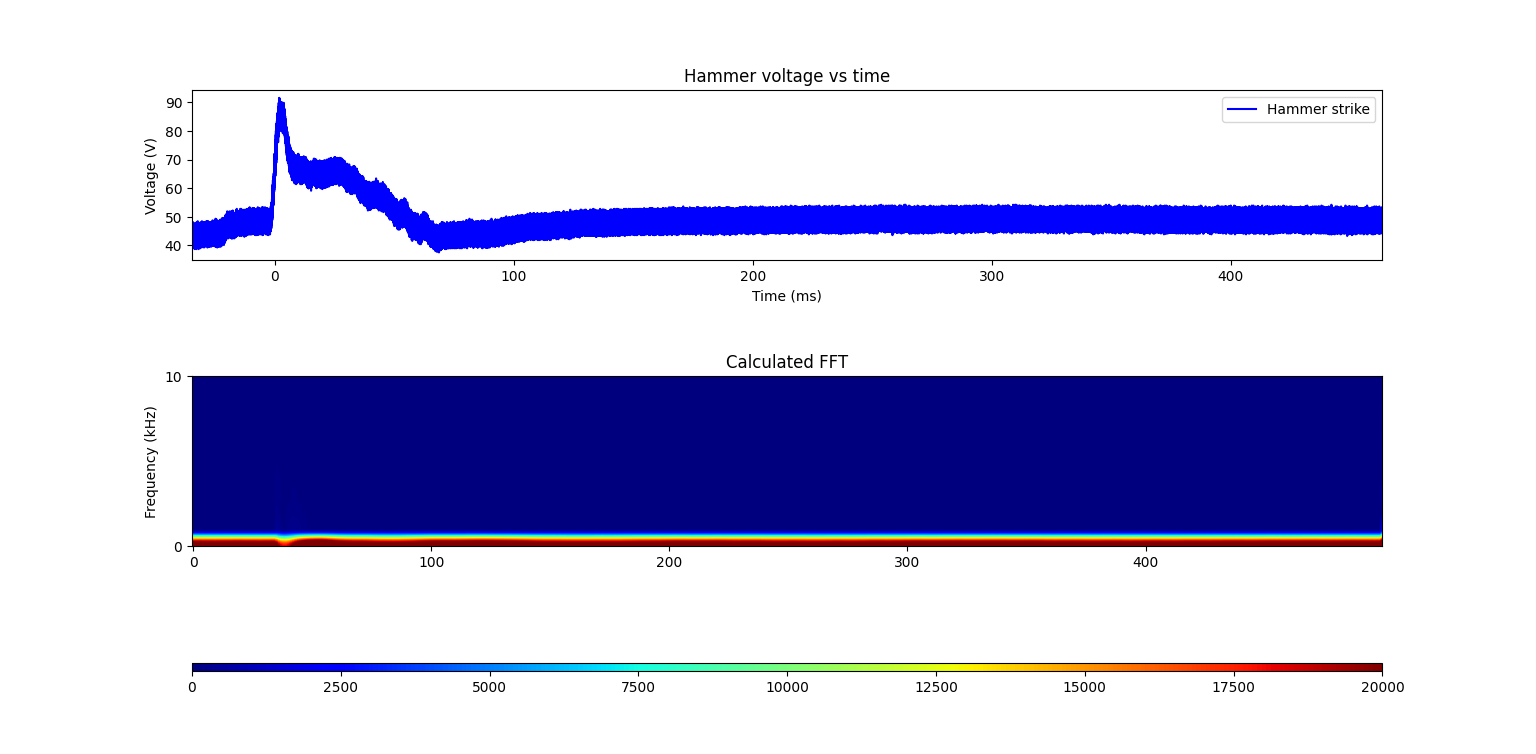
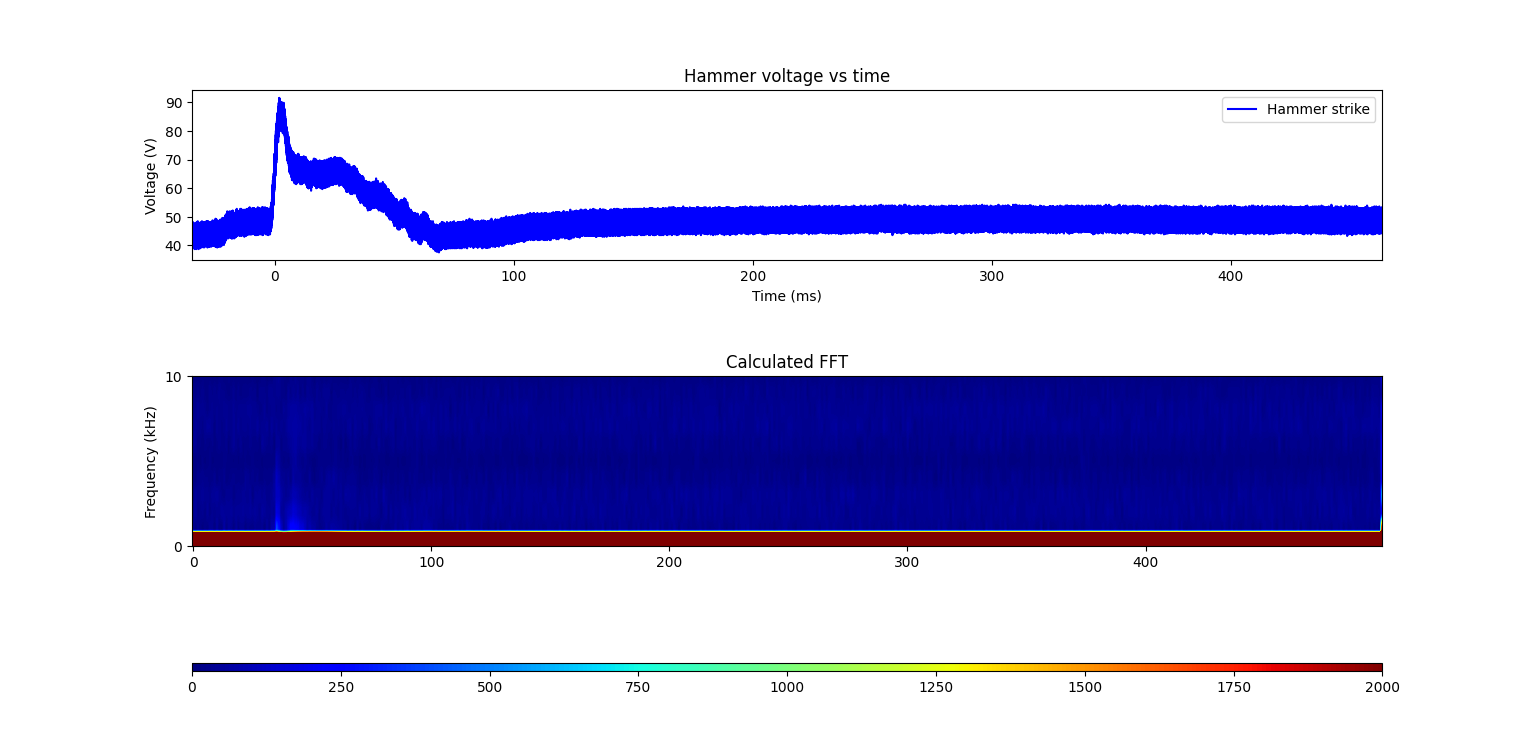
yer frequency analysis works

diff --git a/src/data_analysis_jupyter/analyze_Pico_data.py b/src/data_analysis_jupyter/analyze_Pico_data.py
@@ -86,11 +86,8 @@ def find_maxima_envelope(signal, sampling_rate, approx_frequency):
     return envelope
 
 def butter_lowpass_filter(data, cutOff, fs, order=4):
-    def butter_lowpass(cutOff, fs, order=5):
-        nyq = 0.5 * fs
-        normalCutoff = cutOff / nyq
-        b, a = butter(order, normalCutoff, btype='low', analog = True)
-        return b, a
+    def butter_lowpass(cutoff, fs, order=5):
+        return butter(order, cutoff, fs=fs, btype='low', analog=False)
     
     b, a = butter_lowpass(cutOff, fs, order=order)
     y = lfilter(b, a, data)
@@ -129,7 +126,21 @@ def get_filtered_pulses(data, Sampling_frequency, use_raw_envelope = False, filt
             sos = butter(Filter_order, [Filter_lowcut, Filter_highcut], btype='bandpass', fs=Sampling_frequency, output='sos')
             return np.apply_along_axis(lambda x: sosfilt(sos, x), axis=0, arr = data)
         else:
-            return butter_lowpass_filter(data, cutOff=Filter_highcut, fs=Sampling_frequency, order=Filter_order)
+            window_size_ms = 0.5
+            dt = 1000/Sampling_frequency   # in ms
+            window_size = int(window_size_ms/dt)
+            # Ensure the window size is odd (required for median filter)
+            if window_size % 2 == 0:
+                window_size += 1
+            lowpass = medfilt(data, window_size)
+            
+            '''
+            plt.plot(np.arange(len(data)), data)
+            plt.plot(np.arange(len(lowpass)), lowpass)
+            print(f"filtered data length {len(lowpass)}, versus original {len(data)}")
+            plt.show()
+            '''
+            return lowpass
 
 def get_envelope(data, use_raw_envelope = False):
     '''
@@ -233,7 +244,8 @@ def get_reshaped_arrays(all_csv_data, col_indexes, filter_freqs = [40000, 60000]
     - cuff_recieved_reshaped, circuit_env_reshaped: Filtered recieved pulses and circuit envelope pulses reshaped, respectively.
     - time_ticks: Start time of each pulse (1D array)
     '''
-    use_raw_envelope = False    # If False, Hilbert envelope, if True, maxima envelope     
+    use_raw_envelope = False if filter_freqs[1] < 1000000 else True   # If False, Hilbert envelope, if True, maxima envelope 
+                                                                    # Maxima envelope should be used for unfiltered signal    
     
     # This is dependent on the system, and used to organize where each recieved pulse begins and ends
     SQUARE_PULSES_EXPECTED = 10
@@ -707,7 +719,7 @@ def plot_heat_map_fourier(input_files, folder_path = "", png_name = "", stddev =
     ax2 = plt.subplot(gs[1])
     cuff_vals_for_heatmap = fft_arr
     lower_lim_imshow = 0
-    upper_lim_imshow = 20000
+    upper_lim_imshow = 2000
     im = ax2.imshow(np.transpose(cuff_vals_for_heatmap), aspect='auto', cmap='jet', vmin=lower_lim_imshow, vmax=upper_lim_imshow)
     ax2.set_title("Calculated FFT")
     
@@ -919,7 +931,7 @@ def get_fourier_gif(input_files, col_indexes, save_as_mp4 = True, in_ms = True, 
     print(f"Saved at: {save_place}")
     plt.show()
     
-def plot_2d(input_file_array, legends, use_integral = True, use_calculated_env = True, use_abs = True, folder="", title="fig", in_ms = True):
+def plot_2d(input_file_array, legends, use_integral = True, use_calculated_env = True, use_abs = True, folder="", title="fig", in_ms = True, comparing_filters = False):
     '''
     Plots a heatmap as a single line (the line being the intergal or average of each pulse.)
 
@@ -945,14 +957,18 @@ def plot_2d(input_file_array, legends, use_integral = True, use_calculated_env =
     start_border_ms = 0.3 # Only look at the part of the pulse after this time in ms in the pulse
     ignore_end_of_pulse = True
     end_border_ms = 1.2 # Only look at the part of the pulse before this time in ms in the pulse
-    
+    if (not in_ms):
+        start_border_ms *= 0.001
+        end_border_ms *= 0.001
+        
     # Find y-limit
     abs_max = 0
     abs_min = 100000000
 
     # Loop over each trial to get the averages/variances
     trial_maximum_times = []
-    for input_files in input_file_array:
+    for i in range(len(input_file_array)):
+        input_files = input_file_array[i]
         hammer_times = input_files[0]
         hammer_recieved = input_files[1]
         emg_recieved = input_files[2]
@@ -992,7 +1008,9 @@ def plot_2d(input_file_array, legends, use_integral = True, use_calculated_env =
                 pulse_of_interest = pulse_of_interest[:end_border_index]
                 first_pulse = first_pulse[:end_border_index]
 
-            if use_abs: pulse_of_interest = np.abs(pulse_of_interest - first_pulse)
+            if use_abs: # and (not (comparing_filters)): 
+                # Do NOT normalize to first "pulse" for the lowpassed thing
+                pulse_of_interest = np.abs(pulse_of_interest - first_pulse)
 
             if use_integral: these_lines.append(np.sum(pulse_of_interest)*dt)
             else: these_lines.append(np.average(pulse_of_interest))
@@ -1135,7 +1153,7 @@ def analyze_one_trial(file_name, col_order, plot_circuit_envelope):
         # 2D plot comparing 3 types of filtering
         legends = ["lowpassed", "bandpassed", "unfiltered"]
         input_file_array = [lowpassed_reshaped_arr, regular_reshaped_arr, unfiltered_reshaped_arr]
-        plot_2d(input_file_array, legends, folder=file_folder_name, title=specific_file_name, use_calculated_env=True)
+        plot_2d(input_file_array, legends, folder=file_folder_name, title=specific_file_name, use_calculated_env=True, comparing_filters = True)
 
     # GIF
     # get_fourier_gif(regular_reshaped_arr, col_order, save_as_mp4=False, file_folder_name=file_folder_name, specific_file_name=specific_file_name)
@@ -1155,15 +1173,15 @@ def summary_of_trials(file_names, col_order, experiment_name, analyze_circuit_en
     summed_heatmap_across_trials = []
     file_folder_name = ""
 
-    time_unit = check_time_unit(file_name)
-    print(time_unit)
-    in_ms = time_unit == "(ms)"
-
     # Loop through each file in the folder provided, extracting the heatmap array from each one.
     for file_name in file_names:
         # Get the name of file and folder the CSV is extracted from.
         file_folder_name = file_name[:file_name.rindex("/")]
         specific_file_name = file_name[file_name.rindex("/")+1:file_name.rindex(".")]
+
+        # Some of the longer files will have the time unit as seconds, not ms, so check this.
+        time_unit = check_time_unit(file_name)
+        in_ms = time_unit == "(ms)"
 
         # Read the CSV and reshape the array.
         trial_csv = pd.read_csv(file_name,skiprows=1, sep=',' if file_name[-1]=="v" else "\s+")
